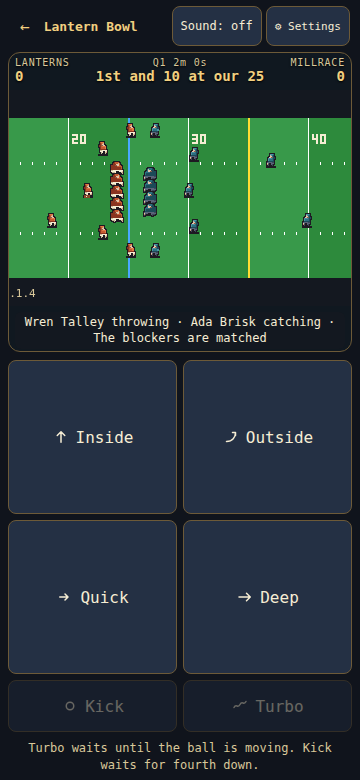
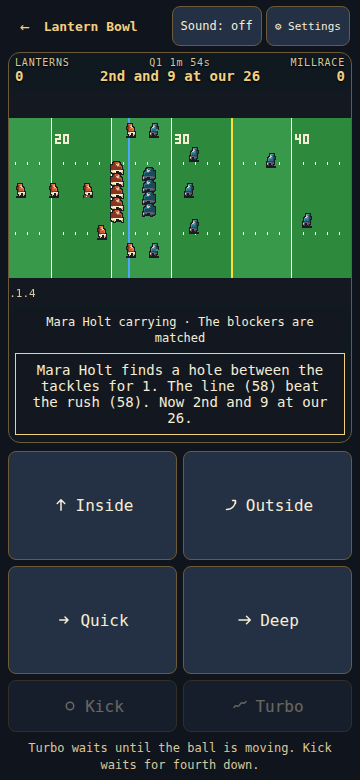
Lantern Bowl: the result sits under the upright field.
The play line and the result stay off the formation, and the field stays on whole pixels.

diff --git a/games/lantern-bowl/style.css b/games/lantern-bowl/style.css
@@ -25,6 +25,8 @@ header .home .narrow { display: none; }
 #settingsMount button { font-size: calc(12px * var(--arc-text)); }
 .screen { position: relative; min-height: 0; overflow: hidden; border: 1px solid #6d5a38; border-radius: 12px; background: #101820; }
 .pitch { position: absolute; inset: 0; }
+.under { position: absolute; inset: 0; pointer-events: none; }
+.under .sheet { pointer-events: auto; }
 .screen, canvas, .curtain, .panel, .banner, .sheet, .dock, .hud, .field-cue, .pitch {
   -webkit-user-select: none; user-select: none;
 }
@@ -135,16 +137,28 @@ footer { padding: 6px 0 0; }
   }
   .pitch {
     position: relative; inset: auto; order: 1;
-    width: max-content; height: max-content; flex: 0 0 auto;
+    width: max-content; height: max-content; flex: 0 0 216px;
   }
   .pitch canvas {
-    width: 384px; height: 216px;
+    width: 384px; height: 216px; flex: 0 0 auto;
     image-rendering: pixelated;
     image-rendering: crisp-edges;
   }
-  .sheet {
-    position: static; order: 2; left: auto; right: auto; top: auto;
-    width: calc(100% - 12px); margin: 6px 6px 2px; flex: 0 0 auto;
+  .under {
+    position: static; inset: auto; order: 2;
+    width: 100%; flex: 0 0 8.5em; height: 8.5em; max-height: 8.5em;
+    overflow: hidden;
+    display: flex; flex-direction: column; align-items: center; gap: 4px;
+    padding: 6px 6px 2px; pointer-events: none;
+  }
+  .under .sheet, .under .banner, .under .field-cue {
+    position: static; left: auto; right: auto; top: auto; bottom: auto;
+    transform: none; width: 100%; max-width: 100%; margin: 0;
+    flex: 0 0 auto; white-space: normal;
+  }
+  .under .sheet { pointer-events: auto; }
+  #sound, #settingsMount .arc-set-btn {
+    max-width: none; overflow: visible; text-overflow: clip; white-space: nowrap; width: auto;
   }
   .curtain { position: fixed; inset: 0; z-index: 6; }
   footer { min-height: 0; display: flex; flex-direction: column; gap: 4px; padding-top: 8px; }

diff --git a/games/lantern-bowl/index.html b/games/lantern-bowl/index.html
@@ -21,11 +21,13 @@
   </div>
   <div class="pitch">
     <canvas id="field" tabindex="0" aria-label="The field, seen from the side."></canvas>
-    <p id="cue" class="field-cue" hidden></p>
-    <p class="banner" id="banner" hidden></p>
     <small id="build" class="build">v0.1.4</small>
   </div>
-  <p id="sheet" class="sheet" hidden></p>
+  <div class="under">
+    <p id="cue" class="field-cue" hidden></p>
+    <p id="sheet" class="sheet" hidden></p>
+    <p class="banner" id="banner" hidden></p>
+  </div>
   <div class="curtain" id="curtain"><section class="panel" id="panel" role="dialog" aria-labelledby="panelTitle"></section></div>
 </section>
 <footer>
